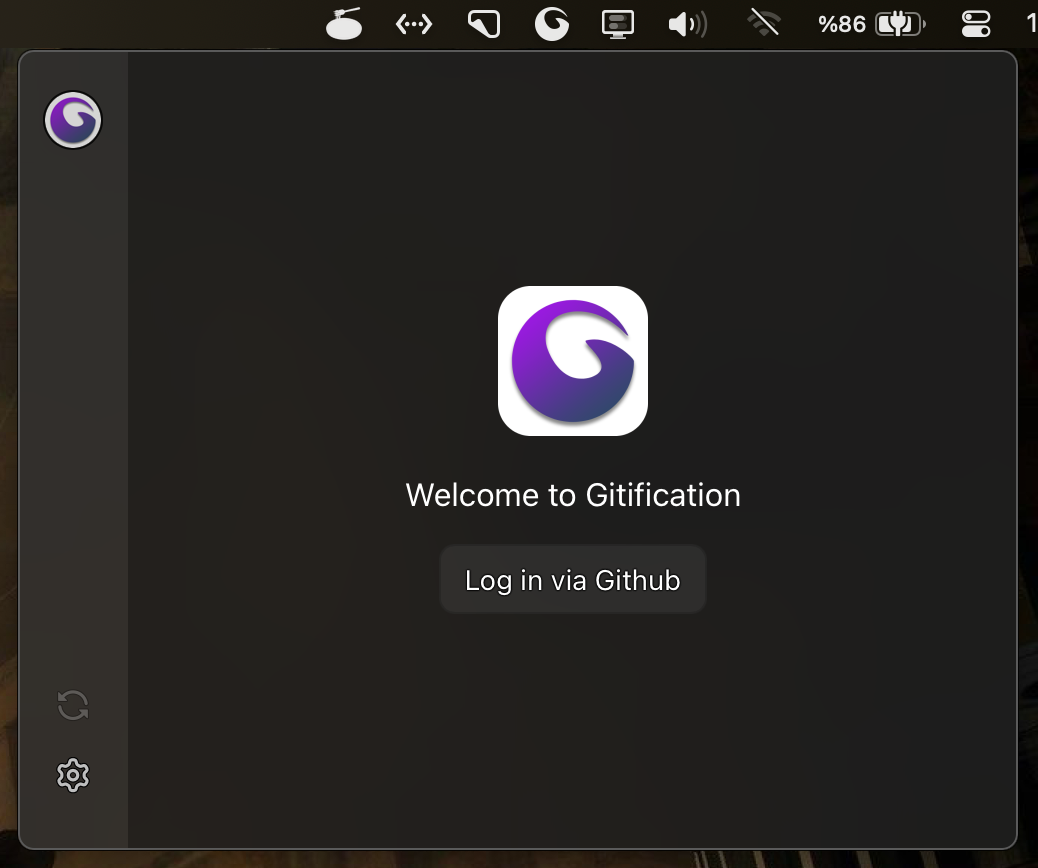
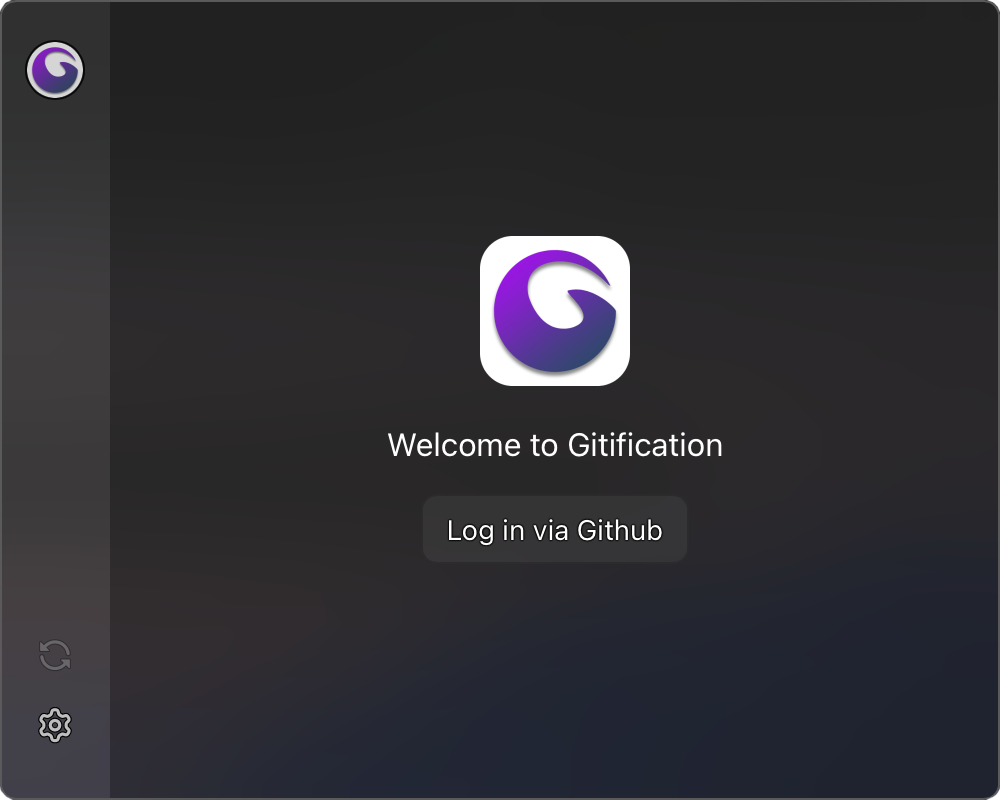
Update images readme

Changed region(s): [[0.0, 0.0, 1.0, 1.0], [0.465, 0.2812, 0.651, 0.5], [0.372, 0.5312, 0.713, 0.6875]]

diff --git a/README.md b/README.md
@@ -11,8 +11,27 @@ An app to view your notifications easily on your menubar.
 
 - Gitification is built with `TypeScript`, `Vue`, `Tauri` and `Vite` with nice plugins.
 
+# Size Comparison with Gitify
+<div align="center">
+  <img style="border-radius: 30px" src="images/size_comparison.png" />
+</div>
+
+
+# Screenshots
+<div align="center">
+  <img src="images/landing.png" />
+</div>
+<br>
+<div align="center">
+  <img src="images/home.png" />
+</div>
+<br>
+<div align="center">
+  <img src="images/settings.png" />
+</div>
+
 # Known Problems
-- Notifications,  Opening external links may not work on Macs because Gitification is not signed currently. I don't earn money from open source, but if I earn `50$` from github sponsorships, I will sign the app.
+-  Gitification is not certificated by an apple developer account, after you download it you have to allow it in `Preference/Privacy & Securiy`. I don't earn money from open source, but if I earn `50$` from github sponsorships, I will sign the app.
 
 - The app is currently ready to be compiled for Windows or Linux but I'm a Mac user so that after I added the features in my mind, I will create Windows and Linux builds.
 
@@ -48,22 +67,3 @@ If you want to contribute you should install these extensions and set-up these s
   }
   ```
 - And lastly in extensions page search `@builtin typescript` then disable TypeScript LSP for your workspace, after reloading vscode you're good to go.
-
-# Size Comparison with Gitify
-<div align="center">
-  <img style="border-radius: 30px" src="images/size_comparison.png" />
-</div>
-
-
-# Screenshots
-<div align="center">
-  <img style="border-radius: 30px" src="images/landing.png" />
-</div>
-<br>
-<div align="center">
-  <img style="border-radius: 30px" src="images/home.png" />
-</div>
-<br>
-<div align="center">
-  <img style="border-radius: 30px" src="images/settings.png" />
-</div>
